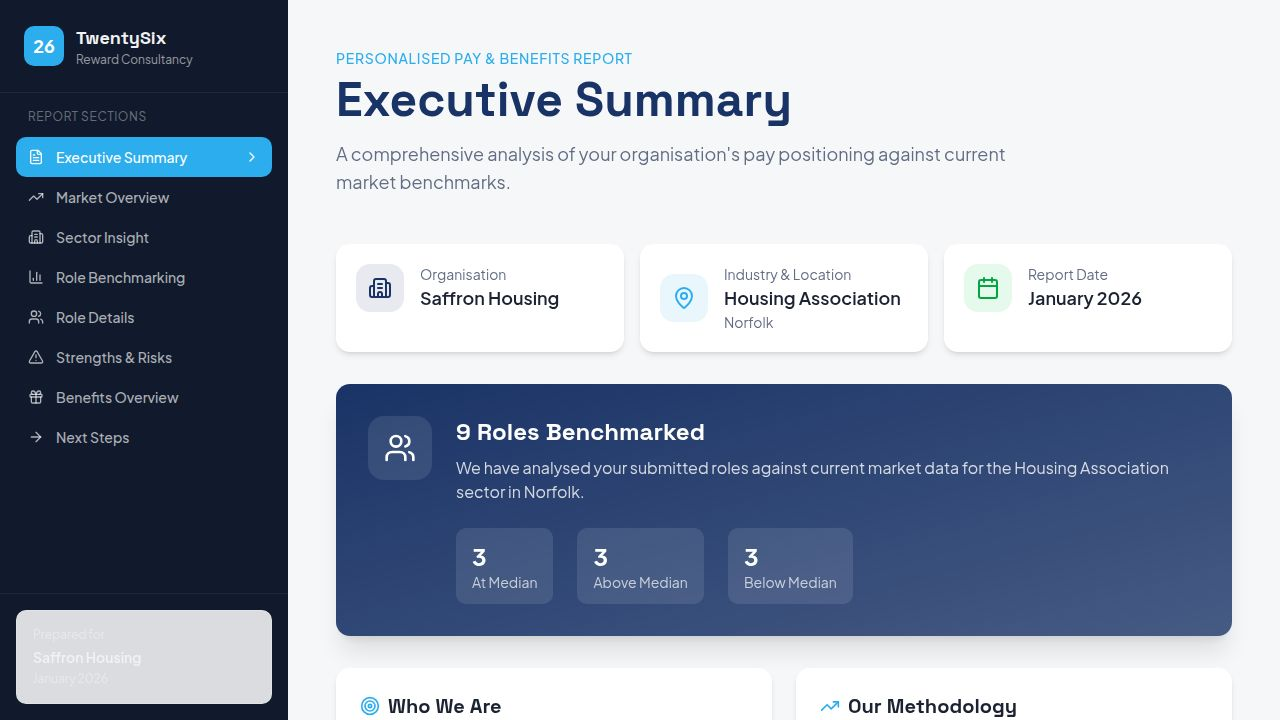
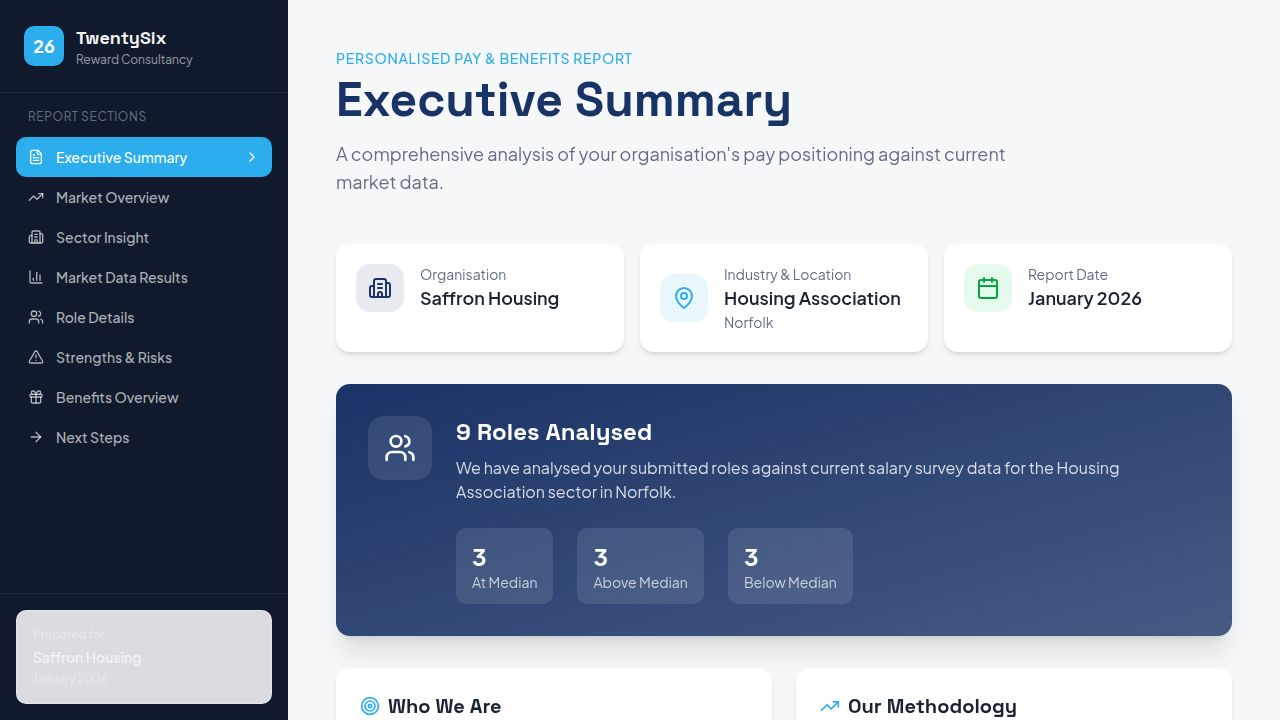
Update terminology from benchmarking to market data across the application
Replace all instances of "benchmark" and "benchmarking" with contextually relevant terms such as "market data", "pay data", "salary survey", and "pay ranges" across various files, including route definitions, navigation items, data interfaces, and page components.

Replit-Commit-Author: Agent
Replit-Commit-Session-Id: cf3ab88a-ec3d-4008-bc3d-b1eb79c3d3ca
Replit-Commit-Checkpoint-Type: full_checkpoint
Replit-Commit-Event-Id: 785ffa92-0862-4d4b-89a9-36ad3a4dbb67
Replit-Commit-Screenshot-Url: https://storage.googleapis.com/screenshot-production-us-central1/e8cd55f2-58ae-4935-874e-f381b80f6d2d/cf3ab88a-ec3d-4008-bc3d-b1eb79c3d3ca/bj5BuWu
Replit-Helium-Checkpoint-Created: true

diff --git a/client/src/pages/ExecutiveSummary.tsx b/client/src/pages/ExecutiveSummary.tsx
@@ -1,9 +1,9 @@
 import { Card } from "@/components/ui/card";
-import { companyInfo, benchmarkData, getPositioning } from "@/lib/data";
+import { companyInfo, marketData, getPositioning } from "@/lib/data";
 import { Building2, MapPin, Calendar, Users, TrendingUp, Target, CheckCircle2 } from "lucide-react";
 
 export function ExecutiveSummary() {
-  const positioningSummary = benchmarkData.reduce(
+  const positioningSummary = marketData.reduce(
     (acc, role) => {
       const pos = getPositioning(role.currentSalary, role.lowerQuartile, role.median, role.upperQuartile);
       acc[pos.position] = (acc[pos.position] || 0) + 1;
@@ -22,7 +22,7 @@ export function ExecutiveSummary() {
           Executive Summary
         </h1>
         <p className="text-lg text-muted-foreground max-w-2xl">
-          A comprehensive analysis of your organisation's pay positioning against current market benchmarks.
+          A comprehensive analysis of your organisation's pay positioning against current market data.
         </p>
       </div>
 
@@ -70,10 +70,10 @@ export function ExecutiveSummary() {
           </div>
           <div>
             <h2 className="text-2xl font-display font-bold mb-2">
-              {benchmarkData.length} Roles Benchmarked
+              {marketData.length} Roles Analysed
             </h2>
             <p className="text-white/80 mb-4">
-              We have analysed your submitted roles against current market data for the {companyInfo.industry} sector in {companyInfo.location}.
+              We have analysed your submitted roles against current salary survey data for the {companyInfo.industry} sector in {companyInfo.location}.
             </p>
             <div className="flex flex-wrap gap-6 mt-6">
               <div className="bg-white/10 rounded-lg px-4 py-3">
@@ -100,7 +100,7 @@ export function ExecutiveSummary() {
             Who We Are
           </h3>
           <p className="text-muted-foreground leading-relaxed">
-            TwentySix is a specialist reward consultancy, working across a large number of sectors in the UK. Our team consists of senior reward consultants, supported by specially trained analysts who bring deep expertise in compensation benchmarking and market analysis.
+            TwentySix is a specialist reward consultancy, working across a large number of sectors in the UK. Our team consists of senior reward consultants, supported by specially trained analysts who bring deep expertise in compensation and market analysis.
           </p>
         </Card>
 
@@ -110,7 +110,7 @@ export function ExecutiveSummary() {
             Our Methodology
           </h3>
           <p className="text-muted-foreground leading-relaxed">
-            We utilise proprietary data sources combined with validated market surveys to provide accurate benchmarking. Each role is carefully matched against comparable positions considering industry, location, organisation size, and scope of responsibilities.
+            We utilise proprietary data sources combined with validated salary surveys to provide accurate pay data. Each role is carefully matched against comparable positions considering industry, location, organisation size, and scope of responsibilities.
           </p>
         </Card>
       </div>
@@ -119,7 +119,7 @@ export function ExecutiveSummary() {
         <h3 className="font-display font-bold text-xl mb-6">How to Use This Report</h3>
         <div className="grid grid-cols-1 md:grid-cols-3 gap-6">
           {[
-            { useCase: "Pay Review", help: "Provides market-aligned ranges for annual salary reviews" },
+            { useCase: "Pay Review", help: "Provides market-aligned pay ranges for annual salary reviews" },
             { useCase: "New Roles", help: "Sense-checks proposed salaries for new positions" },
             { useCase: "Prioritisation", help: "Highlights roles needing deeper review or adjustment" },
           ].map((item, i) => (

diff --git a/client/src/pages/Benchmarking.tsx b/client/src/pages/Benchmarking.tsx
@@ -1,5 +1,5 @@
 import { Card } from "@/components/ui/card";
-import { benchmarkData, getPositioning, distributionData } from "@/lib/data";
+import { marketData, getPositioning, distributionData } from "@/lib/data";
 import {
   BarChart,
   Bar,
@@ -16,7 +16,7 @@ import {
 import { cn } from "@/lib/utils";
 
 export function Benchmarking() {
-  const chartData = benchmarkData.map((role) => {
+  const chartData = marketData.map((role) => {
     const pos = getPositioning(role.currentSalary, role.lowerQuartile, role.median, role.upperQuartile);
     return {
       name: role.role.length > 20 ? role.role.substring(0, 20) + "..." : role.role,
@@ -45,16 +45,16 @@ export function Benchmarking() {
           Salary Analysis
         </p>
         <h1 className="text-4xl lg:text-5xl font-display font-bold text-primary mb-4">
-          Role Benchmarking Results
+          Market Data Results
         </h1>
         <p className="text-lg text-muted-foreground max-w-2xl">
-          Overview of all benchmarked roles with market positioning indicators.
+          Overview of all roles with market positioning indicators from our salary survey data.
         </p>
       </div>
 
       <Card className="p-6 bg-white border-0 shadow-md">
         <h3 className="font-display font-bold text-xl mb-2">Salary Comparison Overview</h3>
-        <p className="text-sm text-muted-foreground mb-6">Current salary vs market quartiles</p>
+        <p className="text-sm text-muted-foreground mb-6">Current salary vs market ranges</p>
         <div className="h-[420px]">
           <ResponsiveContainer width="100%" height="100%">
             <BarChart data={chartData} layout="vertical" margin={{ left: 20 }}>
@@ -127,7 +127,7 @@ export function Benchmarking() {
       <div className="grid grid-cols-1 lg:grid-cols-3 gap-6">
         <Card className="p-6 bg-white border-0 shadow-md lg:col-span-1">
           <h3 className="font-display font-bold text-xl mb-2">Position Distribution</h3>
-          <p className="text-sm text-muted-foreground mb-4">How roles are distributed across quartiles</p>
+          <p className="text-sm text-muted-foreground mb-4">How roles are distributed across pay ranges</p>
           <div className="h-64">
             <ResponsiveContainer width="100%" height="100%">
               <PieChart>
@@ -177,7 +177,7 @@ export function Benchmarking() {
                 </tr>
               </thead>
               <tbody>
-                {benchmarkData.map((role, i) => {
+                {marketData.map((role, i) => {
                   const pos = getPositioning(role.currentSalary, role.lowerQuartile, role.median, role.upperQuartile);
                   return (
                     <tr key={role.id} className={cn("border-b", i % 2 === 0 ? "bg-muted/30" : "")}>

diff --git a/client/src/pages/NextSteps.tsx b/client/src/pages/NextSteps.tsx
@@ -16,7 +16,7 @@ const steps = [
   {
     number: "01",
     title: "Review Your Positioning",
-    description: "Use the role cards to understand where each position sits against market benchmarks. Focus on roles at or below lower quartile as priority.",
+    description: "Use the role cards to understand where each position sits against market data. Focus on roles at or below lower quartile as priority.",
   },
   {
     number: "02",
@@ -89,7 +89,7 @@ export function NextSteps() {
             <Lightbulb className="w-8 h-8" />
           </div>
           <div>
-            <h2 className="text-2xl font-display font-bold mb-3">How to Interpret Salary Ranges</h2>
+            <h2 className="text-2xl font-display font-bold mb-3">How to Interpret Pay Ranges</h2>
             <div className="grid grid-cols-1 md:grid-cols-3 gap-6 mt-4">
               <div className="bg-white/10 rounded-lg p-4">
                 <p className="font-semibold mb-1">Lower Quartile</p>
@@ -154,7 +154,7 @@ export function NextSteps() {
           </div>
           <ul className="space-y-3">
             {[
-              "You have complex or hybrid roles to benchmark",
+              "You have complex or hybrid roles to analyse",
               "You need a comprehensive pay structure review",
               "You're facing significant recruitment challenges",
               "You want detailed recommendations and implementation support",
@@ -177,7 +177,7 @@ export function NextSteps() {
               <tr className="border-b">
                 <th className="text-left py-3 px-4 font-semibold">Feature</th>
                 <th className="text-center py-3 px-4 font-semibold bg-muted/30">Targeted Report</th>
-                <th className="text-center py-3 px-4 font-semibold bg-accent/10">Bespoke Benchmarking</th>
+                <th className="text-center py-3 px-4 font-semibold bg-accent/10">Bespoke Analysis</th>
               </tr>
             </thead>
             <tbody>

diff --git a/client/src/pages/Risks.tsx b/client/src/pages/Risks.tsx
@@ -1,11 +1,11 @@
 import { Card } from "@/components/ui/card";
-import { benchmarkData, getPositioning } from "@/lib/data";
+import { marketData, getPositioning } from "@/lib/data";
 import { cn } from "@/lib/utils";
 import { AlertTriangle, CheckCircle2, TrendingUp, TrendingDown, Shield, Target } from "lucide-react";
 import { PieChart, Pie, Cell, ResponsiveContainer, Tooltip, Legend } from "recharts";
 
 export function Risks() {
-  const rolesByPosition = benchmarkData.reduce((acc, role) => {
+  const rolesByPosition = marketData.reduce((acc, role) => {
     const pos = getPositioning(role.currentSalary, role.lowerQuartile, role.median, role.upperQuartile);
     if (!acc[pos.position]) acc[pos.position] = [];
     acc[pos.position].push({ ...role, positioning: pos });
@@ -22,9 +22,9 @@ export function Risks() {
     { name: "Above Median", value: strengths.filter(r => r.positioning.position === "upper").length + above.length, color: "hsl(200, 85%, 55%)" },
   ];
 
-  const alignedPercentage = Math.round(((rolesByPosition.median?.length || 0) / benchmarkData.length) * 100);
-  const abovePercentage = Math.round((((rolesByPosition.upper?.length || 0) + above.length) / benchmarkData.length) * 100);
-  const belowPercentage = Math.round((risks.length / benchmarkData.length) * 100);
+  const alignedPercentage = Math.round(((rolesByPosition.median?.length || 0) / marketData.length) * 100);
+  const abovePercentage = Math.round((((rolesByPosition.upper?.length || 0) + above.length) / marketData.length) * 100);
+  const belowPercentage = Math.round((risks.length / marketData.length) * 100);
 
   return (
     <div className="max-w-6xl mx-auto space-y-8 animate-fade-in">

diff --git a/client/src/pages/RoleDetails.tsx b/client/src/pages/RoleDetails.tsx
@@ -1,5 +1,5 @@
 import { Card } from "@/components/ui/card";
-import { benchmarkData, getPositioning } from "@/lib/data";
+import { marketData, getPositioning } from "@/lib/data";
 import { cn } from "@/lib/utils";
 import { MapPin, Briefcase, TrendingUp, TrendingDown, Minus, Info } from "lucide-react";
 
@@ -88,12 +88,12 @@ export function RoleDetails() {
           Role Details
         </h1>
         <p className="text-lg text-muted-foreground max-w-2xl">
-          Detailed breakdown of each benchmarked role with market positioning context.
+          Detailed breakdown of each role with market positioning context from our salary survey data.
         </p>
       </div>
 
       <div className="grid grid-cols-1 lg:grid-cols-2 gap-6">
-        {benchmarkData.map((role, index) => {
+        {marketData.map((role, index) => {
           const pos = getPositioning(role.currentSalary, role.lowerQuartile, role.median, role.upperQuartile);
           const diff = role.currentSalary - role.median;
           const diffPercent = ((diff / role.median) * 100).toFixed(1);

diff --git a/client/src/pages/Benefits.tsx b/client/src/pages/Benefits.tsx
@@ -96,9 +96,9 @@ export function Benefits() {
             <Shield className="w-6 h-6" />
           </div>
           <div>
-            <h2 className="text-xl font-display font-bold mb-2">Note on Benefits Benchmarking</h2>
+            <h2 className="text-xl font-display font-bold mb-2">Note on Benefits Data</h2>
             <p className="text-white/80">
-              This section provides an overview of typical benefits in the Housing Association sector. Benefits have not been specifically benchmarked for your organisation. For bespoke benefits analysis, please contact our team.
+              This section provides an overview of typical benefits in the Housing Association sector. Benefits have not been specifically analysed for your organisation. For bespoke benefits analysis, please contact our team.
             </p>
           </div>
         </div>

diff --git a/client/src/components/Layout.tsx b/client/src/components/Layout.tsx
@@ -16,7 +16,7 @@ const navItems = [
   { path: "/", label: "Executive Summary", icon: FileText },
   { path: "/market-overview", label: "Market Overview", icon: TrendingUp },
   { path: "/sector-insight", label: "Sector Insight", icon: Building2 },
-  { path: "/benchmarking", label: "Role Benchmarking", icon: BarChart3 },
+  { path: "/market-data", label: "Market Data Results", icon: BarChart3 },
   { path: "/role-details", label: "Role Details", icon: Users },
   { path: "/risks", label: "Strengths & Risks", icon: AlertTriangle },
   { path: "/benefits", label: "Benefits Overview", icon: Gift },

diff --git a/client/src/App.tsx b/client/src/App.tsx
@@ -21,7 +21,7 @@ function Router() {
         <Route path="/" component={ExecutiveSummary} />
         <Route path="/market-overview" component={MarketOverview} />
         <Route path="/sector-insight" component={SectorInsight} />
-        <Route path="/benchmarking" component={Benchmarking} />
+        <Route path="/market-data" component={Benchmarking} />
         <Route path="/role-details" component={RoleDetails} />
         <Route path="/risks" component={Risks} />
         <Route path="/benefits" component={Benefits} />

diff --git a/client/src/lib/data.ts b/client/src/lib/data.ts
@@ -1,4 +1,4 @@
-export interface BenchmarkRole {
+export interface MarketDataRole {
   id: string;
   role: string;
   currentSalary: number;
@@ -18,7 +18,7 @@ export const companyInfo = {
   reportDate: "January 2026",
 };
 
-export const benchmarkData: BenchmarkRole[] = [
+export const marketData: MarketDataRole[] = [
   {
     id: "1",
     role: "Technical Manager",

diff --git a/client/src/pages/SectorInsight.tsx b/client/src/pages/SectorInsight.tsx
@@ -38,7 +38,7 @@ export function SectorInsight() {
           Sector Insight
         </h1>
         <p className="text-lg text-muted-foreground max-w-2xl">
-          Specific trends and benchmarks for the Housing Association sector.
+          Specific trends and pay data for the Housing Association sector.
         </p>
       </div>
 
